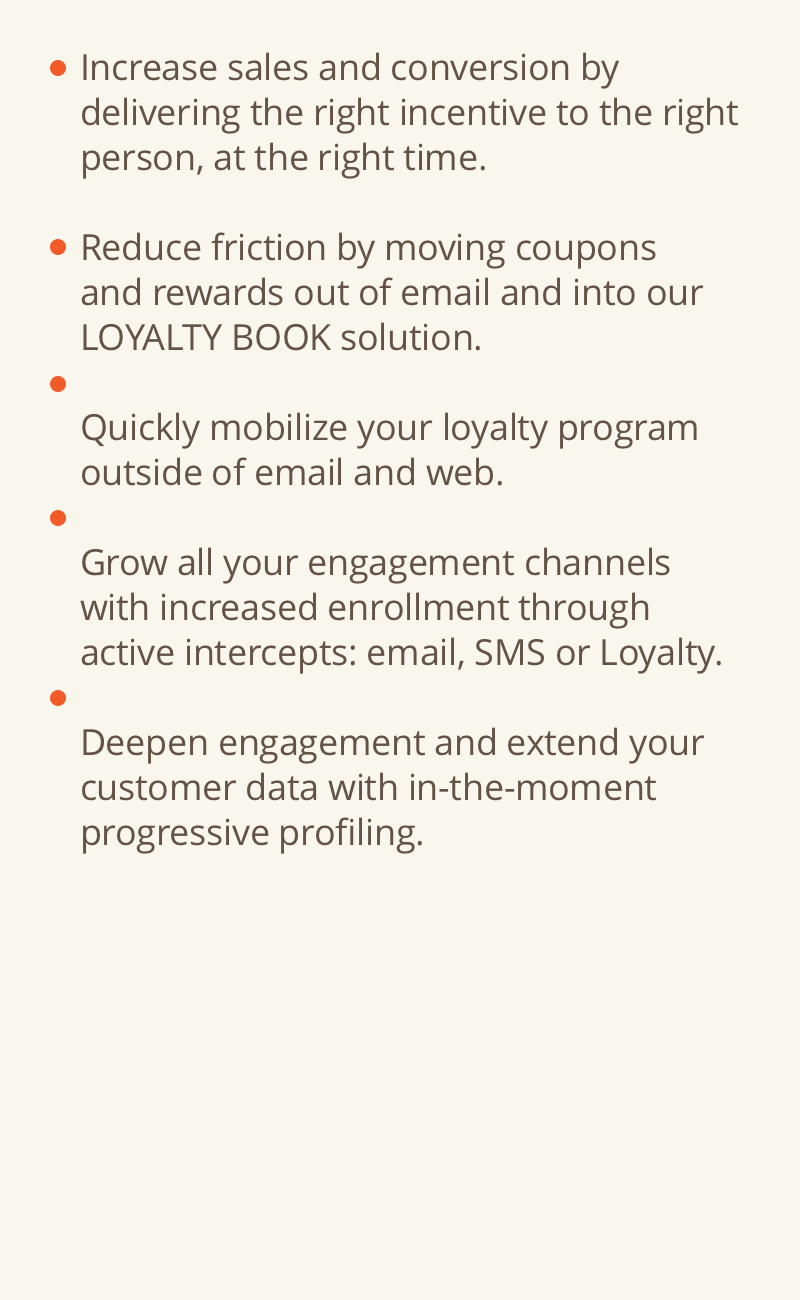
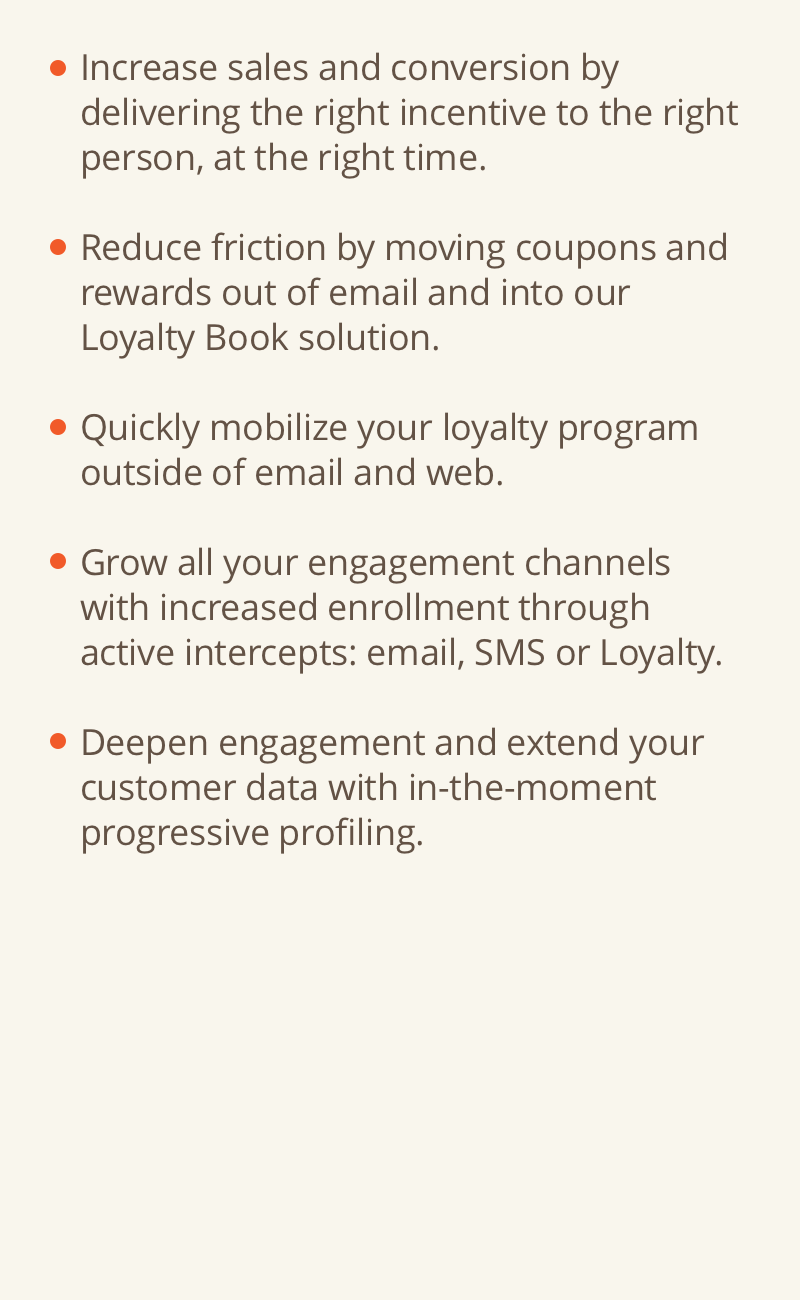
tweaks

diff --git a/KT_Loyalty.html b/KT_Loyalty.html
@@ -1,6 +1,7 @@
 <html style="overflow: hidden; touch-action:none;">
 <head>
     <meta charset="utf-8"/>
+    <meta name="format-detection" content="telephone=no">
     <meta name="viewport" content="width=device-width, initial-scale=1.0, user-scalable=no">
     <script src="https://use.fontawesome.com/e9a878b310.js"></script>
     <script src="https://cdnjs.cloudflare.com/ajax/libs/lodash.js/4.17.11/lodash.min.js"></script>
@@ -268,7 +269,7 @@
             <img id="barcode_128" style="position:absolute; left:120px; top: 300px;"/>
             <div class="tabcontent" id="reward10disclaimer"
                  style="display: none; background-color: white; padding: 60px; padding-bottom: 120px; font-size: 25px; width:100% ">
-                <p style="font-size: 35px;">Valid 8/04/2018 - 9/03/2018. Not valid on alcoholic beverages, gift cards, delivery surcharges, and shipping fees. Cannot be combined with other coupons and offers. Discount will be applied to current selling price. Employees not eligible. No adjustments to prior purchases. No cash value or rain checks issued. When you return an item, you will forfeit the discount applied to that item. </p>
+                <p style="font-size: 30px;">Valid 8/04/2018 - 9/03/2018. Not valid on alcoholic beverages, gift cards, delivery surcharges, and shipping fees. Cannot be combined with other coupons and offers. Discount will be applied to current selling price. Employees not eligible. No adjustments to prior purchases. No cash value or rain checks issued. When you return an item, you will forfeit the discount applied to that item. </p>
 
             </div>
 
@@ -288,7 +289,7 @@
             <img id="barcode_128" style="position:absolute; left:120px; top: 290px;"/>
             <div class="tabcontent" id="spenddisclaimer"
                  style="display: none; background-color: white; padding: 60px; padding-bottom: 120px; font-size: 25px; width:100% ">
-                <p style="font-size: 35px;">Valid today only. Not valid on alcoholic beverages, gift cards, delivery surcharges, and shipping fees. Cannot be combined with other coupons and offers. Discount will be applied to current selling price. Employees not eligible. No adjustments to prior purchases. No cash value or rain checks issued. When you return an item, you will forfeit the discount applied to that item. </p>
+                <p style="font-size: 30px;">Valid today only. Not valid on alcoholic beverages, gift cards, delivery surcharges, and shipping fees. Cannot be combined with other coupons and offers. Discount will be applied to current selling price. Employees not eligible. No adjustments to prior purchases. No cash value or rain checks issued. When you return an item, you will forfeit the discount applied to that item. </p>
 
             </div>
 
@@ -324,22 +325,22 @@
         </div>
 
         <div class="card fixedcard dots-light"><img draggable="false" class="heroImage" src="img/KT_201809/Loyalty/Email%20Bonus%20Credits.png">
-            <a href="">
+
                 <svg style="position:absolute; left:250px; top: 1125px; z-index:11; cursor: pointer;">
                     <polygon points="0,0 350,0 350,70 0,70" style="fill: #44C0B8"/>
                     <text x="100" y="45" font-size="30" fill="#FFFFFF">SUBMIT</text>
                 </svg>
-            </a>
+
         </div>
 
 
         <div class="card fixedcard dots-light"><img draggable="false" class="heroImage" src="img/KT_201809/Loyalty/pillows.png">
-            <a href="">
+
                 <svg style="position:absolute; left:250px; top: 1125px; z-index:11; cursor: pointer;">
                     <polygon points="0,0 350,0 350,70 0,70" style="fill: #F15A29"/>
                     <text x="50" y="45" font-size="30" fill="#FFFFFF">VIEW SELECTION</text>
                 </svg>
-            </a>
+
         </div>
 
     </div>

diff --git a/KT_Inspire.html b/KT_Inspire.html
@@ -65,12 +65,12 @@
         }
 
         p {
-            font-size: 25px;
+            font-size: 30px;
             font-family:'Open Sans';
         }
 
         li {
-            font-size: 25px;
+            font-size: 30px;
             font-family:'Open Sans';
         }
 
